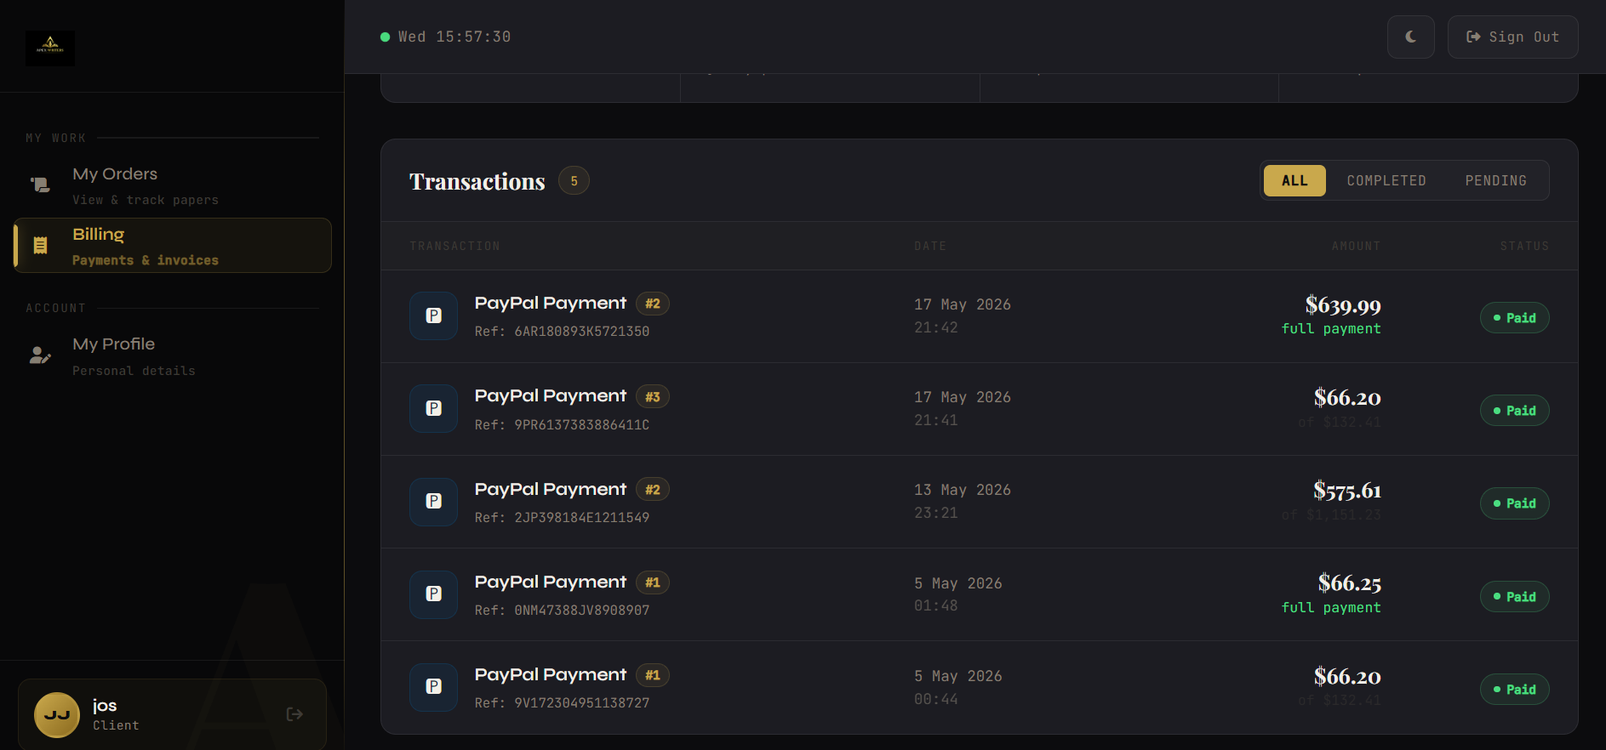
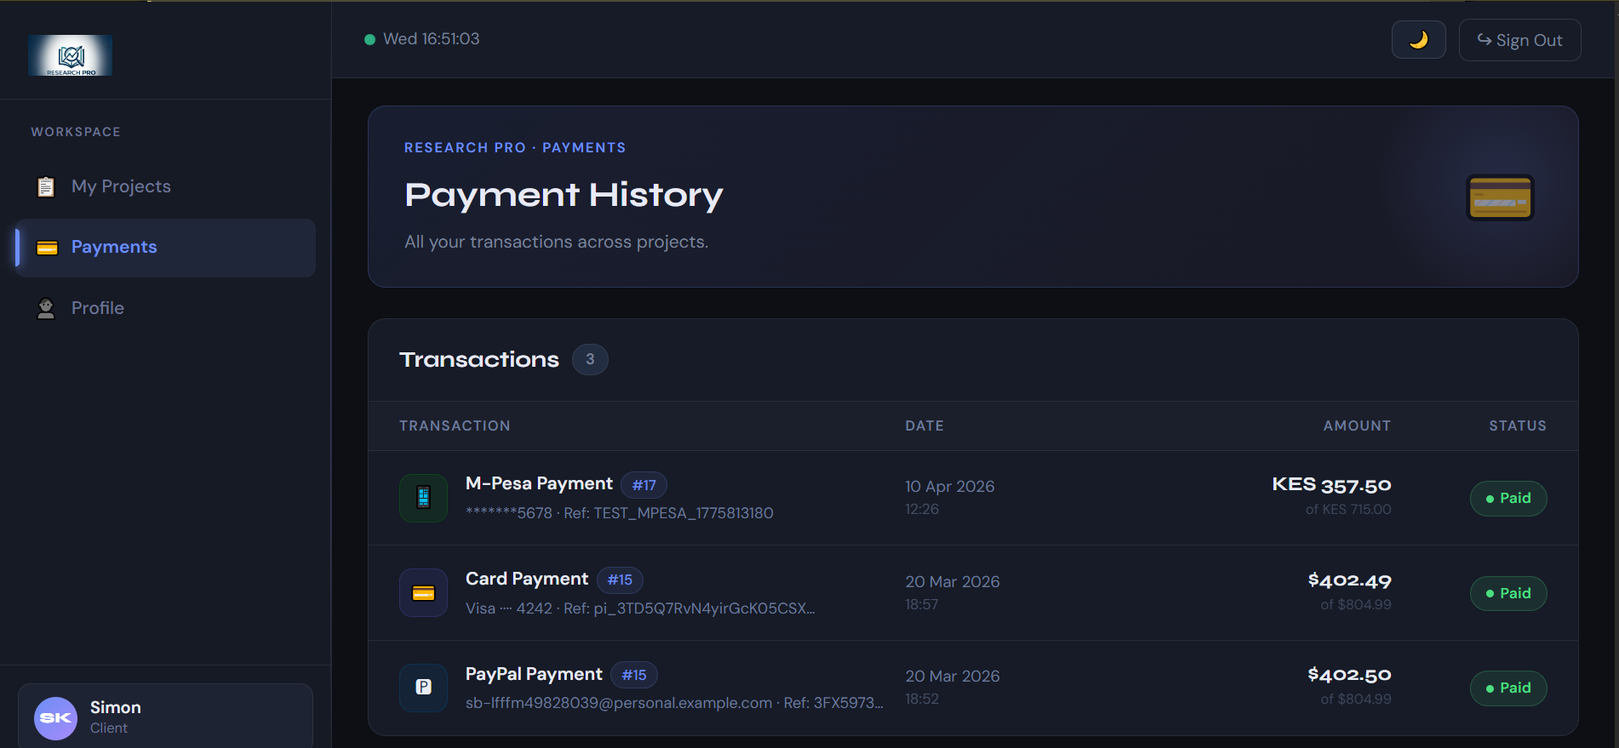
add Procfile for deployment

diff --git a/index.html b/index.html
@@ -446,7 +446,7 @@ footer{border-top:1px solid var(--line);padding:3rem 2.5rem;display:flex;justify
 
 <!-- Lightbox -->
 <div class="lightbox" id="lightbox" role="dialog" aria-modal="true">
-  <button class="lightbox-close" id="lightboxClose" aria-label="Close">✕</button>
+  <button class="lightbox-close" id="lightboxClose" aria-label="Close">&#x2715;</button>
   <img id="lightboxImg" src="" alt="Screenshot preview"/>
   <div class="lightbox-caption" id="lightboxCaption"></div>
 </div>
@@ -493,7 +493,7 @@ footer{border-top:1px solid var(--line);padding:3rem 2.5rem;display:flex;justify
       <div class="hero-tagline">
         <span>Full-Stack Engineer</span><span class="tagline-sep">◆</span>
         <span>AI Systems</span><span class="tagline-sep">◆</span>
-        <span>Cloud & Mobile</span>
+        <span>Cloud &amp; Mobile</span>
       </div>
       <p class="hero-desc">I architect and deliver production-grade web platforms, intelligent AI systems, mobile applications, and end-to-end automation pipelines — engineering scalable solutions that solve real operational problems. Based in Nairobi, serving clients globally.</p>
       <div class="hero-ctas">
@@ -570,13 +570,13 @@ footer{border-top:1px solid var(--line);padding:3rem 2.5rem;display:flex;justify
     <div class="skills-layout">
       <div class="skills-nav-col reveal">
         <div class="stab active" data-tab="frontend"><span class="stab-icon">🎨</span>Frontend</div>
-        <div class="stab" data-tab="backend"><span class="stab-icon">⚙</span>Backend & APIs</div>
-        <div class="stab" data-tab="csharp"><span class="stab-icon">🔷</span>C# & .NET</div>
+        <div class="stab" data-tab="backend"><span class="stab-icon">⚙</span>Backend &amp; APIs</div>
+        <div class="stab" data-tab="csharp"><span class="stab-icon">🔷</span>C# &amp; .NET</div>
         <div class="stab" data-tab="mobile"><span class="stab-icon">📱</span>Mobile Apps</div>
-        <div class="stab" data-tab="cloud"><span class="stab-icon">☁</span>Cloud & DevOps</div>
-        <div class="stab" data-tab="databases"><span class="stab-icon">🗄</span>Databases & SQL</div>
-        <div class="stab" data-tab="ai"><span class="stab-icon">🤖</span>AI & Automation</div>
-        <div class="stab" data-tab="payments"><span class="stab-icon">💳</span>Payments & Tools</div>
+        <div class="stab" data-tab="cloud"><span class="stab-icon">☁</span>Cloud &amp; DevOps</div>
+        <div class="stab" data-tab="databases"><span class="stab-icon">🗄</span>Databases &amp; SQL</div>
+        <div class="stab" data-tab="ai"><span class="stab-icon">🤖</span>AI &amp; Automation</div>
+        <div class="stab" data-tab="payments"><span class="stab-icon">💳</span>Payments &amp; Tools</div>
       </div>
       <div class="reveal d1">
         <div class="spanel active" id="tab-frontend">
@@ -586,40 +586,40 @@ footer{border-top:1px solid var(--line);padding:3rem 2.5rem;display:flex;justify
             <div class="pill"><span class="pill-gem"></span>React.js</div>
             <div class="pill"><span class="pill-gem"></span>JavaScript (ES2022+)</div>
             <div class="pill"><span class="pill-gem"></span>TypeScript</div>
-            <div class="pill"><span class="pill-gem"></span>HTML5 & Semantic Markup</div>
-            <div class="pill"><span class="pill-gem"></span>CSS3 & Animations</div>
+            <div class="pill"><span class="pill-gem"></span>HTML5 &amp; Semantic Markup</div>
+            <div class="pill"><span class="pill-gem"></span>CSS3 &amp; Animations</div>
             <div class="pill"><span class="pill-gem"></span>Responsive Design</div>
             <div class="pill"><span class="pill-gem"></span>React Router</div>
             <div class="pill"><span class="pill-gem"></span>Redux / Zustand</div>
-            <div class="pill"><span class="pill-gem"></span>Axios & Fetch API</div>
+            <div class="pill"><span class="pill-gem"></span>Axios &amp; Fetch API</div>
             <div class="pill"><span class="pill-gem"></span>Tailwind CSS</div>
             <div class="pill"><span class="pill-gem"></span>Figma (handoff)</div>
           </div>
         </div>
         <div class="spanel" id="tab-backend">
-          <div class="spanel-title">Backend & API Development</div>
+          <div class="spanel-title">Backend &amp; API Development</div>
           <div class="spanel-desc">Building robust, secure, and scalable server-side systems. RESTful APIs, authentication, and multi-role business logic with Django, Flask, and more.</div>
           <div class="pills">
             <div class="pill"><span class="pill-gem"></span>Python 3.x</div>
-            <div class="pill"><span class="pill-gem"></span>Django & Django REST Framework</div>
-            <div class="pill"><span class="pill-gem"></span>Flask & Flask-RESTful</div>
+            <div class="pill"><span class="pill-gem"></span>Django &amp; Django REST Framework</div>
+            <div class="pill"><span class="pill-gem"></span>Flask &amp; Flask-RESTful</div>
             <div class="pill"><span class="pill-gem"></span>RESTful API Design</div>
             <div class="pill"><span class="pill-gem"></span>JWT Authentication</div>
-            <div class="pill"><span class="pill-gem"></span>OAuth2 & Social Auth</div>
-            <div class="pill"><span class="pill-gem"></span>Celery & Task Queues</div>
+            <div class="pill"><span class="pill-gem"></span>OAuth2 &amp; Social Auth</div>
+            <div class="pill"><span class="pill-gem"></span>Celery &amp; Task Queues</div>
             <div class="pill"><span class="pill-gem"></span>WebSockets</div>
-            <div class="pill"><span class="pill-gem"></span>API Security & Rate Limiting</div>
+            <div class="pill"><span class="pill-gem"></span>API Security &amp; Rate Limiting</div>
           </div>
         </div>
         <div class="spanel" id="tab-csharp">
-          <div class="spanel-title">C# & .NET Ecosystem</div>
+          <div class="spanel-title">C# &amp; .NET Ecosystem</div>
           <div class="spanel-desc">Enterprise-grade backend systems and APIs. From ASP.NET Core web APIs to background services and desktop applications.</div>
           <div class="pills">
             <div class="pill"><span class="pill-gem"></span>C# (.NET 8 / 9)</div>
             <div class="pill"><span class="pill-gem"></span>ASP.NET Core Web API</div>
             <div class="pill"><span class="pill-gem"></span>Entity Framework Core</div>
-            <div class="pill"><span class="pill-gem"></span>LINQ & Async / Await</div>
-            <div class="pill"><span class="pill-gem"></span>MVC & Razor Pages</div>
+            <div class="pill"><span class="pill-gem"></span>LINQ &amp; Async / Await</div>
+            <div class="pill"><span class="pill-gem"></span>MVC &amp; Razor Pages</div>
             <div class="pill"><span class="pill-gem"></span>SignalR (Real-time)</div>
             <div class="pill"><span class="pill-gem"></span>Dependency Injection</div>
             <div class="pill"><span class="pill-gem"></span>xUnit Testing</div>
@@ -636,30 +636,30 @@ footer{border-top:1px solid var(--line);padding:3rem 2.5rem;display:flex;justify
             <div class="pill"><span class="pill-gem"></span>Kotlin (Android Native)</div>
             <div class="pill"><span class="pill-gem"></span>Android SDK</div>
             <div class="pill"><span class="pill-gem"></span>Firebase (Auth, FCM, Firestore)</div>
-            <div class="pill"><span class="pill-gem"></span>AsyncStorage & SQLite</div>
+            <div class="pill"><span class="pill-gem"></span>AsyncStorage &amp; SQLite</div>
             <div class="pill"><span class="pill-gem"></span>Push Notifications</div>
-            <div class="pill"><span class="pill-gem"></span>GPS & Geolocation</div>
-            <div class="pill"><span class="pill-gem"></span>Camera & Media APIs</div>
+            <div class="pill"><span class="pill-gem"></span>GPS &amp; Geolocation</div>
+            <div class="pill"><span class="pill-gem"></span>Camera &amp; Media APIs</div>
             <div class="pill"><span class="pill-gem"></span>Play Store Deployment</div>
           </div>
         </div>
         <div class="spanel" id="tab-cloud">
-          <div class="spanel-title">Cloud & DevOps</div>
+          <div class="spanel-title">Cloud &amp; DevOps</div>
           <div class="spanel-desc">Deploying and managing production infrastructure on Microsoft Azure. Containerize with Docker, automate CI/CD, monitor and keep systems resilient.</div>
           <div class="pills">
             <div class="pill"><span class="pill-gem"></span>Microsoft Azure</div>
             <div class="pill"><span class="pill-gem"></span>Azure App Service</div>
             <div class="pill"><span class="pill-gem"></span>Azure Blob Storage</div>
             <div class="pill"><span class="pill-gem"></span>Azure Functions</div>
-            <div class="pill"><span class="pill-gem"></span>Docker & Containerization</div>
+            <div class="pill"><span class="pill-gem"></span>Docker &amp; Containerization</div>
             <div class="pill"><span class="pill-gem"></span>GitHub Actions (CI/CD)</div>
             <div class="pill"><span class="pill-gem"></span>Linux / Ubuntu Server</div>
-            <div class="pill"><span class="pill-gem"></span>Nginx & Gunicorn</div>
-            <div class="pill"><span class="pill-gem"></span>Environment & Secret Management</div>
+            <div class="pill"><span class="pill-gem"></span>Nginx &amp; Gunicorn</div>
+            <div class="pill"><span class="pill-gem"></span>Environment &amp; Secret Management</div>
           </div>
         </div>
         <div class="spanel" id="tab-databases">
-          <div class="spanel-title">Databases & SQL</div>
+          <div class="spanel-title">Databases &amp; SQL</div>
           <div class="spanel-desc">Efficient, normalized database schemas for transactional and analytical workloads. Comfortable with open-source and enterprise-grade relational databases.</div>
           <div class="pills">
             <div class="pill"><span class="pill-gem"></span>PostgreSQL</div>
@@ -675,7 +675,7 @@ footer{border-top:1px solid var(--line);padding:3rem 2.5rem;display:flex;justify
           </div>
         </div>
         <div class="spanel" id="tab-ai">
-          <div class="spanel-title">AI Integrations & Automation</div>
+          <div class="spanel-title">AI Integrations &amp; Automation</div>
           <div class="spanel-desc">Embedding AI into real products — not demos. RAG pipelines to task automation scripts, LLM integrations, and intelligent workflows that save time.</div>
           <div class="pills">
             <div class="pill"><span class="pill-gem"></span>OpenAI API (GPT-4o)</div>
@@ -686,23 +686,23 @@ footer{border-top:1px solid var(--line);padding:3rem 2.5rem;display:flex;justify
             <div class="pill"><span class="pill-gem"></span>Prompt Engineering</div>
             <div class="pill"><span class="pill-gem"></span>Python Automation Scripts</div>
             <div class="pill"><span class="pill-gem"></span>Web Scraping (BeautifulSoup / Playwright)</div>
-            <div class="pill"><span class="pill-gem"></span>Email & Notification Automation</div>
+            <div class="pill"><span class="pill-gem"></span>Email &amp; Notification Automation</div>
             <div class="pill"><span class="pill-gem"></span>Azure AI Services</div>
           </div>
         </div>
         <div class="spanel" id="tab-payments">
-          <div class="spanel-title">Payments, Integrations & Tools</div>
+          <div class="spanel-title">Payments, Integrations &amp; Tools</div>
           <div class="spanel-desc">Wiring up the services that make a product real — payments, comms, version control, and the toolchain that keeps development smooth and professional.</div>
           <div class="pills">
-            <div class="pill"><span class="pill-gem"></span>Stripe (Payments & Subscriptions)</div>
+            <div class="pill"><span class="pill-gem"></span>Stripe (Payments &amp; Subscriptions)</div>
             <div class="pill"><span class="pill-gem"></span>PayPal API</div>
             <div class="pill"><span class="pill-gem"></span>M-Pesa (Daraja API)</div>
-            <div class="pill"><span class="pill-gem"></span>Twilio (SMS & Voice)</div>
-            <div class="pill"><span class="pill-gem"></span>SendGrid & Email APIs</div>
-            <div class="pill"><span class="pill-gem"></span>Git & GitHub</div>
-            <div class="pill"><span class="pill-gem"></span>Postman & API Testing</div>
+            <div class="pill"><span class="pill-gem"></span>Twilio (SMS &amp; Voice)</div>
+            <div class="pill"><span class="pill-gem"></span>SendGrid &amp; Email APIs</div>
+            <div class="pill"><span class="pill-gem"></span>Git &amp; GitHub</div>
+            <div class="pill"><span class="pill-gem"></span>Postman &amp; API Testing</div>
             <div class="pill"><span class="pill-gem"></span>VS Code / Visual Studio</div>
-            <div class="pill"><span class="pill-gem"></span>Jira & Agile Workflow</div>
+            <div class="pill"><span class="pill-gem"></span>Jira &amp; Agile Workflow</div>
           </div>
         </div>
       </div>
@@ -719,14 +719,14 @@ footer{border-top:1px solid var(--line);padding:3rem 2.5rem;display:flex;justify
     <h2 class="section-h reveal">What I build<br/><em>for you.</em></h2>
     <div class="svc-grid reveal">
       <div class="svc"><div class="svc-num">01</div><div class="svc-ico">🌐</div><h3>Full-Stack Web Applications</h3><p>End-to-end web platforms with React frontends and Django/Flask/C# backends. Multi-role access control, real-time features, and clean API design from the ground up.</p><div class="svc-chips"><span class="svc-chip">React</span><span class="svc-chip">Django</span><span class="svc-chip">PostgreSQL</span></div></div>
-      <div class="svc"><div class="svc-num">02</div><div class="svc-ico">🔷</div><h3>C# & .NET Systems</h3><p>Enterprise-grade APIs, desktop applications, and real-time backend services with ASP.NET Core, Entity Framework, and SignalR. Battle-tested and production-ready.</p><div class="svc-chips"><span class="svc-chip">C#</span><span class="svc-chip">ASP.NET Core</span><span class="svc-chip">EF Core</span></div></div>
+      <div class="svc"><div class="svc-num">02</div><div class="svc-ico">🔷</div><h3>C# &amp; .NET Systems</h3><p>Enterprise-grade APIs, desktop applications, and real-time backend services with ASP.NET Core, Entity Framework, and SignalR. Battle-tested and production-ready.</p><div class="svc-chips"><span class="svc-chip">C#</span><span class="svc-chip">ASP.NET Core</span><span class="svc-chip">EF Core</span></div></div>
       <div class="svc"><div class="svc-num">03</div><div class="svc-ico">📱</div><h3>Mobile App Development</h3><p>Cross-platform mobile apps with React Native and native Android with Kotlin. Rich UX, offline support, push notifications, and Play Store deployment.</p><div class="svc-chips"><span class="svc-chip">React Native</span><span class="svc-chip">Kotlin</span><span class="svc-chip">Firebase</span></div></div>
-      <div class="svc"><div class="svc-num">04</div><div class="svc-ico">☁</div><h3>Cloud & Azure Deployment</h3><p>Deploy, scale, and manage your application on Microsoft Azure. App Service, Blob Storage, Azure SQL, Functions, and CI/CD pipelines via GitHub Actions.</p><div class="svc-chips"><span class="svc-chip">Azure</span><span class="svc-chip">Docker</span><span class="svc-chip">CI/CD</span></div></div>
+      <div class="svc"><div class="svc-num">04</div><div class="svc-ico">☁</div><h3>Cloud &amp; Azure Deployment</h3><p>Deploy, scale, and manage your application on Microsoft Azure. App Service, Blob Storage, Azure SQL, Functions, and CI/CD pipelines via GitHub Actions.</p><div class="svc-chips"><span class="svc-chip">Azure</span><span class="svc-chip">Docker</span><span class="svc-chip">CI/CD</span></div></div>
       <div class="svc"><div class="svc-num">05</div><div class="svc-ico">🤖</div><h3>AI-Powered Systems</h3><p>Integrate GPT-4o, Claude, or custom AI pipelines into your product. RAG systems, chatbots, document analysis, and intelligent workflow automation.</p><div class="svc-chips"><span class="svc-chip">OpenAI</span><span class="svc-chip">Claude API</span><span class="svc-chip">LangChain</span></div></div>
-      <div class="svc"><div class="svc-num">06</div><div class="svc-ico">🗄</div><h3>Database Design & SQL</h3><p>Normalized schema design, complex queries, migrations, and performance optimization. PostgreSQL, SQL Server, and Azure SQL for transactional and analytical workloads.</p><div class="svc-chips"><span class="svc-chip">PostgreSQL</span><span class="svc-chip">SQL Server</span><span class="svc-chip">Azure SQL</span></div></div>
-      <div class="svc"><div class="svc-num">07</div><div class="svc-ico">⚙</div><h3>Automation & Scripting</h3><p>Python scripts and scheduled jobs that eliminate manual work — report generation, data sync, scraping pipelines, email automation, and more.</p><div class="svc-chips"><span class="svc-chip">Python</span><span class="svc-chip">Celery</span><span class="svc-chip">Playwright</span></div></div>
+      <div class="svc"><div class="svc-num">06</div><div class="svc-ico">🗄</div><h3>Database Design &amp; SQL</h3><p>Normalized schema design, complex queries, migrations, and performance optimization. PostgreSQL, SQL Server, and Azure SQL for transactional and analytical workloads.</p><div class="svc-chips"><span class="svc-chip">PostgreSQL</span><span class="svc-chip">SQL Server</span><span class="svc-chip">Azure SQL</span></div></div>
+      <div class="svc"><div class="svc-num">07</div><div class="svc-ico">⚙</div><h3>Automation &amp; Scripting</h3><p>Python scripts and scheduled jobs that eliminate manual work — report generation, data sync, scraping pipelines, email automation, and more.</p><div class="svc-chips"><span class="svc-chip">Python</span><span class="svc-chip">Celery</span><span class="svc-chip">Playwright</span></div></div>
       <div class="svc"><div class="svc-num">08</div><div class="svc-ico">💳</div><h3>Payment Integrations</h3><p>Stripe subscriptions, M-Pesa Daraja, and PayPal — fully integrated payment flows, webhooks, invoicing, and subscription management for any platform.</p><div class="svc-chips"><span class="svc-chip">Stripe</span><span class="svc-chip">M-Pesa</span><span class="svc-chip">PayPal</span></div></div>
-      <div class="svc"><div class="svc-num">09</div><div class="svc-ico">📊</div><h3>Data Science & Analytics</h3><p>Data analysis pipelines, machine learning models, dashboards, and BI integrations — transforming raw data into operational insights and automated decisions.</p><div class="svc-chips"><span class="svc-chip">Python</span><span class="svc-chip">Pandas</span><span class="svc-chip">Scikit-Learn</span></div></div>
+      <div class="svc"><div class="svc-num">09</div><div class="svc-ico">📊</div><h3>Data Science &amp; Analytics</h3><p>Data analysis pipelines, machine learning models, dashboards, and BI integrations — transforming raw data into operational insights and automated decisions.</p><div class="svc-chips"><span class="svc-chip">Python</span><span class="svc-chip">Pandas</span><span class="svc-chip">Scikit-Learn</span></div></div>
     </div>
   </div>
 </div>
@@ -769,7 +769,7 @@ footer{border-top:1px solid var(--line);padding:3rem 2.5rem;display:flex;justify
       </div>
     </div>
 
-    <!-- Civet Investments — with rent billing screenshot -->
+    <!-- Civet Investments -->
     <div class="proj reveal">
       <div class="proj-top">
         <span class="proj-idx">02</span>
@@ -778,7 +778,6 @@ footer{border-top:1px solid var(--line);padding:3rem 2.5rem;display:flex;justify
           <div class="proj-link">↗</div>
         </div>
       </div>
-      <!-- Screenshot: rent billing -->
       <div class="proj-screenshot" data-src="screenshots/rent billing.PNG" data-caption="Rent Billing — Civet Investments">
         <img src="screenshots/rent billing.PNG" alt="Civet Investments — Rent Billing Dashboard" onerror="this.parentElement.style.display='none'"/>
         <div class="screen-overlay"><span class="screen-badge">🖼 Automated Rent Billing</span></div>
@@ -792,7 +791,7 @@ footer{border-top:1px solid var(--line);padding:3rem 2.5rem;display:flex;justify
       </div>
     </div>
 
-    <!-- ResearchPro — with rental agency dash as visual stand-in -->
+    <!-- ResearchPro -->
     <div class="proj reveal d1">
       <div class="proj-top">
         <span class="proj-idx">03</span>
@@ -801,7 +800,6 @@ footer{border-top:1px solid var(--line);padding:3rem 2.5rem;display:flex;justify
           <div class="proj-link">↗</div>
         </div>
       </div>
-      <!-- Screenshot: client payments -->
       <div class="proj-screenshot" data-src="screenshots/clientspayments.PNG" data-caption="Client Payments — ResearchPro">
         <img src="screenshots/clientspayments.PNG" alt="ResearchPro — Client Payments" onerror="this.parentElement.style.display='none'"/>
         <div class="screen-overlay"><span class="screen-badge">🖼 Client Payments Module</span></div>
@@ -821,7 +819,6 @@ footer{border-top:1px solid var(--line);padding:3rem 2.5rem;display:flex;justify
         <span class="proj-idx">04</span>
         <div class="proj-links"><div class="proj-link">↗</div></div>
       </div>
-      <!-- Screenshot: rental agency dashboard -->
       <div class="proj-screenshot" data-src="screenshots/rentalagencydashboard.PNG" data-caption="Rental Agency Dashboard">
         <img src="screenshots/rentalagencydashboard.PNG" alt="Rental Agency Operations Dashboard" onerror="this.parentElement.style.display='none'"/>
         <div class="screen-overlay"><span class="screen-badge">🖼 Agency Operations Dashboard</span></div>
@@ -834,13 +831,12 @@ footer{border-top:1px solid var(--line);padding:3rem 2.5rem;display:flex;justify
       </div>
     </div>
 
-    <!-- Rabit Farm — with decisions outcomes screenshot -->
+    <!-- Rabit Farm -->
     <div class="proj reveal">
       <div class="proj-top">
         <span class="proj-idx">05</span>
         <div class="proj-links"><div class="proj-link">↗</div></div>
       </div>
-      <!-- Screenshot: decisions outcomes -->
       <div class="proj-screenshot" data-src="screenshots/decisions outcomes.PNG" data-caption="Farm Decision Outcomes — Rabit">
         <img src="screenshots/decisions outcomes.PNG" alt="Rabit Farm — Decision Outcomes Dashboard" onerror="this.parentElement.style.display='none'"/>
         <div class="screen-overlay"><span class="screen-badge">🖼 Farm Decision Outcomes</span></div>
@@ -853,16 +849,11 @@ footer{border-top:1px solid var(--line);padding:3rem 2.5rem;display:flex;justify
       </div>
     </div>
 
-    <!-- Breeding / WaterBill -->
+    <!-- WaterBill — NO screenshot -->
     <div class="proj reveal d1">
       <div class="proj-top">
         <span class="proj-idx">06</span>
         <div class="proj-links"><div class="proj-link">↗</div></div>
-      </div>
-      <!-- Screenshot: breeding -->
-      <div class="proj-screenshot" data-src="screenshots/breeding.PNG" data-caption="Livestock Breeding Management — Rabit">
-        <img src="screenshots/reeding.PNG" alt="Rabit — Livestock Breeding Module" onerror="this.parentElement.style.display='none'"/>
-        <div class="screen-overlay"><span class="screen-badge">🖼 Breeding Management Module</span></div>
       </div>
       <h3>WaterBill — Utility Billing Automation System</h3>
       <p>An automated billing platform for water utility providers that replaces manual meter-reading and statement workflows with a fully digital pipeline. The system manages tenant accounts, processes field-officer meter readings via a companion mobile interface, applies a tiered pricing engine, dispatches bulk SMS notifications via Twilio, and reconciles M-Pesa payments — reducing billing cycle time from days to minutes.</p>
@@ -920,7 +911,7 @@ footer{border-top:1px solid var(--line);padding:3rem 2.5rem;display:flex;justify
         <span class="proj-idx">10</span>
         <div class="proj-links"><div class="proj-link">↗</div></div>
       </div>
-      <h3>E-Commerce & Subscription Platform</h3>
+      <h3>E-Commerce &amp; Subscription Platform</h3>
       <p>A full-featured commerce platform that handles product catalogue management, shopping cart logic, Stripe subscription billing with proration, PayPal checkout fallback, and a seller analytics dashboard. The platform automates transactional communications via SendGrid and integrates a flexible coupon and discount engine to support promotional campaigns without manual intervention.</p>
       <div class="proj-tags">
         <span class="ptag">Django</span><span class="ptag">React</span><span class="ptag">Stripe</span>
@@ -956,7 +947,7 @@ footer{border-top:1px solid var(--line);padding:3rem 2.5rem;display:flex;justify
       </div>
       <div class="pstep">
         <div class="pnum" data-n="04">04</div>
-        <h4>Ship & Support</h4>
+        <h4>Ship &amp; Support</h4>
         <p>Deployed to production, tested, documented, and handed over with full support. Long-term partnerships welcome.</p>
       </div>
     </div>
@@ -1019,10 +1010,10 @@ footer{border-top:1px solid var(--line);padding:3rem 2.5rem;display:flex;justify
             <option>Full-Stack Web Application</option>
             <option>C# / .NET System</option>
             <option>Mobile App (React Native / Android)</option>
-            <option>Cloud & Azure Deployment</option>
+            <option>Cloud &amp; Azure Deployment</option>
             <option>AI / LLM Integration</option>
-            <option>Database Design & SQL</option>
-            <option>Automation & Scripting</option>
+            <option>Database Design &amp; SQL</option>
+            <option>Automation &amp; Scripting</option>
             <option>Payment Integration</option>
             <option>Data Science / Analytics</option>
             <option>Other / Not Sure Yet</option>
@@ -1049,7 +1040,7 @@ footer{border-top:1px solid var(--line);padding:3rem 2.5rem;display:flex;justify
      ================================================================ -->
 <footer>
   <div class="footer-brand">Simon K. Kuria</div>
-  <div class="footer-copy">Designed & Built by <span>SKK</span> · Kenya 🇰🇪 · 2025</div>
+  <div class="footer-copy">Designed &amp; Built by <span>SKK</span> · Kenya 🇰🇪 · 2025</div>
   <div class="flinks">
     <a href="https://github.com/simono02" target="_blank" rel="noopener">GitHub</a>
     <a href="https://linkedin.com/in/simon-kuria-38986334a" target="_blank" rel="noopener">LinkedIn</a>
